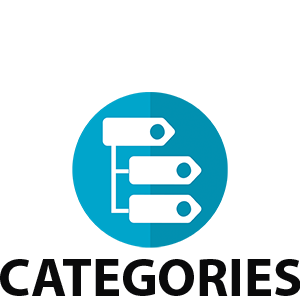
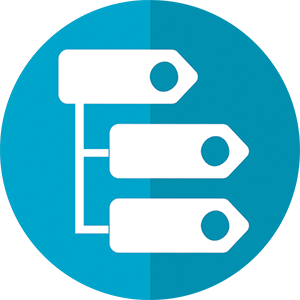
initial commit

diff --git a/www/css/app-custom-styles.css b/www/css/app-custom-styles.css
@@ -27,14 +27,14 @@
 /** STYLE FOR APP MAIN PAGE BEGINS **/
 #app-main-tab-home {
     background-position: center;
-    background-size: 50% 50%;
+    background-size: 32% 32%;
     background-origin: content-box;
     background-repeat: no-repeat;
     background-image: url("app-images/home-icon-img.png");
 }
 #app-main-tab-categories {
     background-position: center;
-    background-size: contain;
+    background-size: 32% 32%;
     background-origin: content-box;
     background-repeat: no-repeat;
     background-image: url("app-images/category-icon-img.png");
